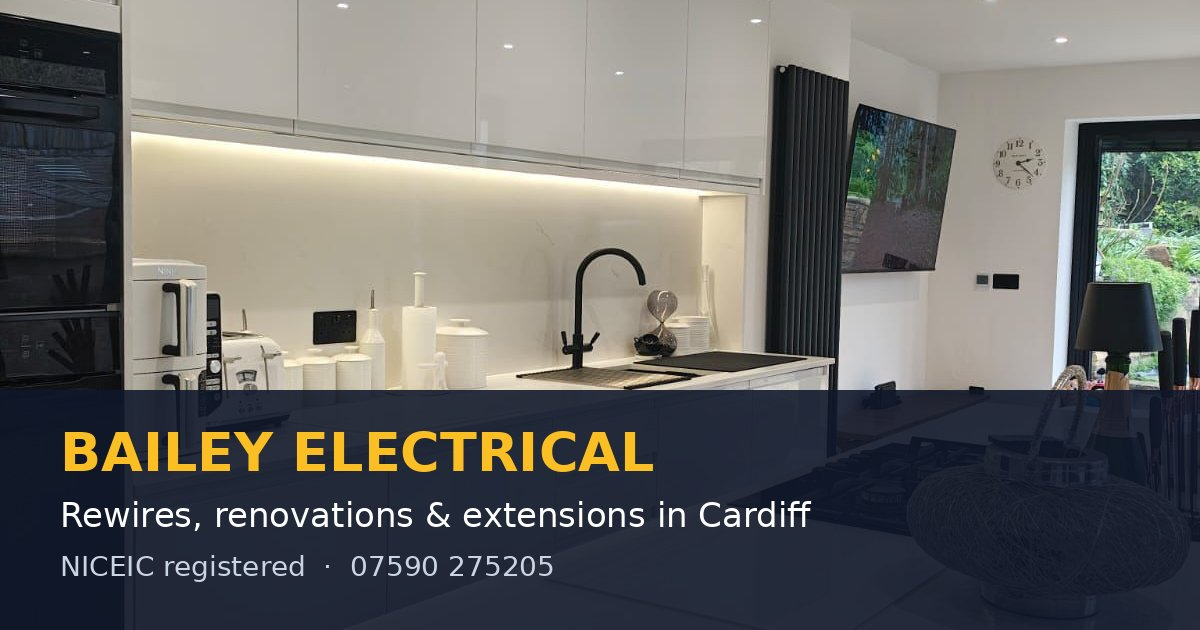
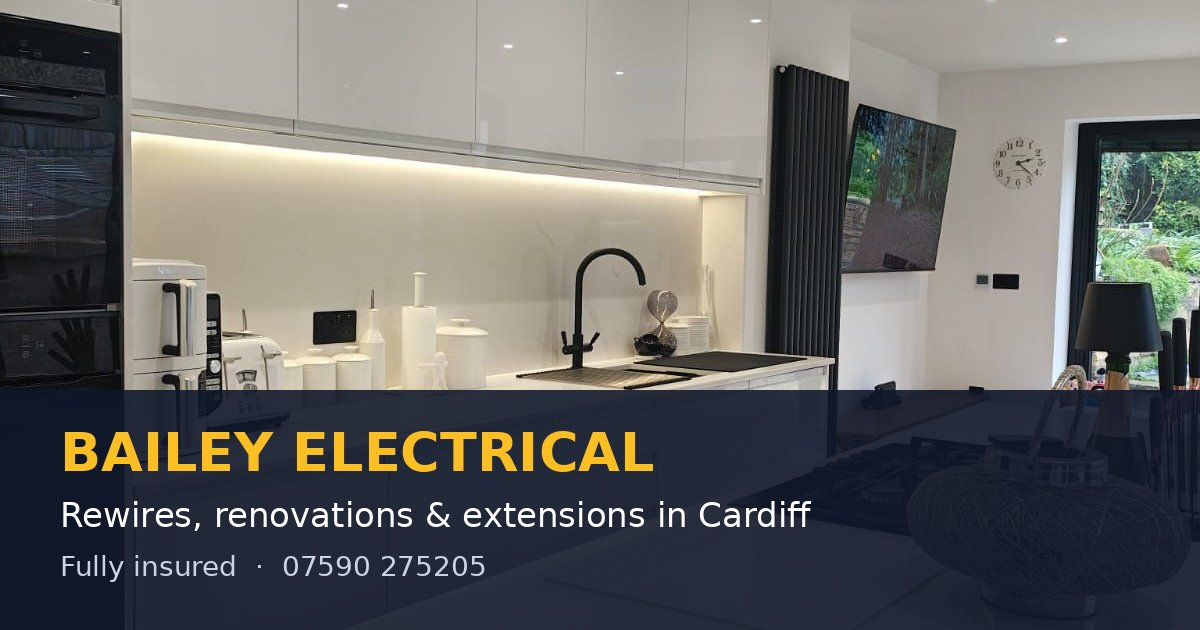
Remove NICEIC references, brighten photo fades, use preferred hero copy
- Mark is not NICEIC registered: removed from copy, schema, llms.txt and share image
- Building Regs wording now says notifiable work is signed off with Building Control
- Lighter gradients so background photos show through; darker glass panel for contrast
- Hero description reverted to the wording Mark's family prefers

Claude-Session: https://claude.ai/code/session_01WJVn2ZJL3RMjxZNQv47Fcv

Changed region(s): [[0.0617, 0.8746, 0.4625, 0.9349]]

diff --git a/src/styles/global.css b/src/styles/global.css
@@ -52,19 +52,20 @@ h1, h2, h3 { letter-spacing: -0.02em; }
 
 /* Full-bleed photo backgrounds that fade into the navy */
 .photo-bg { position: relative; overflow: hidden; background: var(--navy); isolation: isolate; }
-.photo-bg > .bg { position: absolute; inset: 0; width: 100%; height: 100%; object-fit: cover; z-index: -2; transform: scale(1.04); }
+.photo-bg > .bg { position: absolute; inset: 0; width: 100%; height: 100%; object-fit: cover; z-index: -2; transform: scale(1.04); filter: brightness(1.12) saturate(1.05); }
+.photo-bg h1, .photo-bg h2, .photo-bg p, .photo-bg li { text-shadow: 0 1px 12px rgba(11,18,32,.55); }
 .photo-bg::before { content: ""; position: absolute; inset: 0; z-index: -1;
   background:
-    linear-gradient(90deg, rgba(11,18,32,.97) 0%, rgba(11,18,32,.90) 38%, rgba(11,18,32,.55) 70%, rgba(11,18,32,.35) 100%),
-    linear-gradient(0deg, rgba(11,18,32,.85) 0%, rgba(11,18,32,0) 35%); }
-.photo-bg.center::before { background: linear-gradient(180deg, rgba(11,18,32,.82) 0%, rgba(11,18,32,.88) 60%, rgba(11,18,32,.96) 100%); }
-.photo-bg.soft > .bg { filter: blur(2px) saturate(.9); }
-@media (max-width: 767px) { .photo-bg::before { background: linear-gradient(180deg, rgba(11,18,32,.80) 0%, rgba(11,18,32,.92) 55%, rgba(11,18,32,.97) 100%); } }
+    linear-gradient(90deg, rgba(11,18,32,.88) 0%, rgba(11,18,32,.68) 38%, rgba(11,18,32,.28) 72%, rgba(11,18,32,.10) 100%),
+    linear-gradient(0deg, rgba(11,18,32,.55) 0%, rgba(11,18,32,0) 30%); }
+.photo-bg.center::before { background: linear-gradient(180deg, rgba(11,18,32,.55) 0%, rgba(11,18,32,.70) 60%, rgba(11,18,32,.85) 100%); }
+.photo-bg.soft > .bg { filter: saturate(1.05); }
+@media (max-width: 767px) { .photo-bg::before { background: linear-gradient(180deg, rgba(11,18,32,.45) 0%, rgba(11,18,32,.72) 55%, rgba(11,18,32,.88) 100%); } }
 
 /* Glass panels on dark backgrounds */
-.glass { background: rgba(255,255,255,.06); border: 1px solid rgba(255,255,255,.12); backdrop-filter: blur(10px); -webkit-backdrop-filter: blur(10px); }
+.glass { background: rgba(11,18,32,.55); border: 1px solid rgba(255,255,255,.14); backdrop-filter: blur(10px); -webkit-backdrop-filter: blur(10px); }
 .glass-link { transition: all .25s ease; }
-.glass-link:hover { background: rgba(255,255,255,.10); border-color: rgba(251,191,36,.55); transform: translateY(-2px); }
+.glass-link:hover { background: rgba(11,18,32,.70); border-color: rgba(251,191,36,.55); transform: translateY(-2px); }
 
 /* Cards with a photo that fades into the card */
 .photo-card { background: #fff; border: 1px solid #e8edf3; border-radius: 1rem; overflow: hidden; transition: all .3s ease; box-shadow: 0 1px 2px rgba(15,23,42,.04); }
@@ -72,7 +73,7 @@ h1, h2, h3 { letter-spacing: -0.02em; }
 .photo-card .ph { position: relative; height: 190px; overflow: hidden; }
 .photo-card .ph img { width: 100%; height: 100%; object-fit: cover; transition: transform .6s ease; }
 .photo-card:hover .ph img { transform: scale(1.06); }
-.photo-card .ph::after { content: ""; position: absolute; inset: 0; background: linear-gradient(180deg, rgba(255,255,255,0) 35%, rgba(255,255,255,.85) 85%, #fff 100%); }
+.photo-card .ph::after { content: ""; position: absolute; inset: 0; background: linear-gradient(180deg, rgba(255,255,255,0) 60%, rgba(255,255,255,.7) 92%, #fff 100%); }
 
 /* Softer, more premium cards and buttons */
 .card { border-color: #e8edf3; border-radius: 1rem; box-shadow: 0 1px 2px rgba(15,23,42,.04); }

diff --git a/src/pages/llms.txt.ts b/src/pages/llms.txt.ts
@@ -11,17 +11,17 @@ export const GET: APIRoute = async () => {
   const projects = await getCollection('projects');
   const L: string[] = [
     `# ${biz.NAME}`, '',
-    `> ${biz.NAME} is a local, independent, NICEIC registered electrician based in Cardiff, Wales. It specialises in house rewires, consumer unit (fuse box) upgrades, electrics for extensions, kitchens, bathrooms and renovations, and indoor and outdoor lighting. It also carries out EICRs and landlord electrical certificates. It works with homeowners, landlords and letting agents, builders and other trades, and small local businesses.`,
+    `> ${biz.NAME} is a local, independent, fully insured electrician based in Cardiff, Wales. It specialises in house rewires, consumer unit (fuse box) upgrades, electrics for extensions, kitchens, bathrooms and renovations, and indoor and outdoor lighting. It also carries out EICRs and landlord electrical certificates. It works with homeowners, landlords and letting agents, builders and other trades, and small local businesses.`,
     '', '## Key facts',
     `- Business name: ${biz.NAME}`,
     '- Type: Domestic electrician / electrical contractor',
-    '- Registration: NICEIC registered; full public liability insurance',
+    '- Insurance: full public liability insurance',
     '- Based in: Cardiff, Wales, UK',
     `- Areas covered: Cardiff (${biz.CARDIFF_AREAS.join(', ')}) and roughly 20 miles around, including ${biz.NEARBY_AREAS.join(', ')}. Travels further for larger projects.`,
     `- Phone: ${biz.PHONE_DISPLAY} (${biz.PHONE_INTL})`, `- Email: ${biz.EMAIL}`, `- Website: ${S}/`, `- Get a quote: ${S}/get-a-quote/`, `- Facebook: ${biz.FACEBOOK}`,
     '- Quotes: free, fixed written quotes after a survey visit',
     '- Best suited to: planned work such as rewires, renovations, extensions, consumer unit upgrades, lighting projects and landlord testing. Does not offer a 24/7 emergency service.',
-    '- Works with builders: yes — first and second fix around the build programme, certification and Building Regulations notification handled',
+    '- Works with builders: yes — first and second fix around the build programme, certification and Building Regulations sign-off arranged',
     '', '## Services',
     ...services.map((s: any) => `- [${stripTags(s.h1)}](${S}/${s.slug}/): ${stripTags(s.lead)}`),
     '- Lighting: downlights, LED upgrades, under-cabinet, plinth and mirror lighting, garden, patio and outdoor lighting',

diff --git a/src/lib/schema.ts b/src/lib/schema.ts
@@ -21,7 +21,7 @@ export function businessSchema() {
     logo: `${SITE}/logo.svg`,
     image: [`${SITE}/assets/og-image.jpg`, `${SITE}/work-3.jpeg`, `${SITE}/work-7.jpeg`, `${SITE}/work-1.jpeg`],
     description:
-      'Local, independent NICEIC registered electrician in Cardiff specialising in rewires, consumer unit upgrades, extension and renovation electrics, lighting, EICRs and landlord certificates. Works with homeowners, landlords, builders and other trades.',
+      'Local, independent electrician in Cardiff specialising in rewires, consumer unit upgrades, extension and renovation electrics, lighting, EICRs and landlord certificates. Works with homeowners, landlords, builders and other trades.',
     slogan: 'Rewires, renovations & extensions — done properly.',
     telephone: biz.PHONE_INTL,
     email: biz.EMAIL,
@@ -29,7 +29,6 @@ export function businessSchema() {
     areaServed: areaServed(),
     knowsLanguage: 'en-GB',
     currenciesAccepted: 'GBP',
-    memberOf: { '@type': 'Organization', name: 'NICEIC', url: 'https://niceic.com/' },
     knowsAbout: [
       'House rewiring', 'Consumer unit replacement', 'Electrical Installation Condition Reports',
       'Landlord electrical safety certificates', 'Renting Homes (Wales) electrical safety', 'Extension and renovation electrics',

diff --git a/SEO-CHECKLIST.md b/SEO-CHECKLIST.md
@@ -66,7 +66,7 @@ What's already done on the website, and what still needs doing by a person (most
 ### AI assistants (ChatGPT, Claude, Perplexity, Gemini, Google AI Overviews)
 - [x] `llms.txt` – a plain-English Markdown summary of the business, its services, areas and FAQs for AI tools to read
 - [x] `robots.txt` explicitly allows AI crawlers (GPTBot, OAI-SearchBot, ClaudeBot, PerplexityBot, Google-Extended, Applebot and others)
-- [x] Content written as clear, factual statements ("Bailey Electrical is a NICEIC registered electrician in Cardiff that specialises in…"), which AI tools quote more readily
+- [x] Content written as clear, factual statements ("Bailey Electrical is a local, independent electrician in Cardiff that specialises in…"), which AI tools quote more readily
 - [x] Business name, phone and area identical everywhere on the site
 
 > Honest note: no major AI company has confirmed it reads `llms.txt`. It's cheap to have, but what really gets a business named by AI assistants and in Google AI Overviews is the same as normal local SEO: being indexed by Google **and Bing** (ChatGPT search uses Bing), a strong Google Business Profile, reviews, and consistent details across the web. That's the list below.
@@ -83,7 +83,7 @@ What's already done on the website, and what still needs doing by a person (most
 - [ ] In Search Console, submit `https://bailey-electrical.co.uk/sitemap-index.xml`
 
 ### 1. Check the facts on the site (before anything else)
-- [ ] Confirm **NICEIC registration** is current, and send John the registration number to display (the site says it in several places)
+- [ ] Confirm how notifiable work (rewires, consumer units, new circuits) is signed off with Building Control – the site says "we arrange sign-off". If Mark joins a competent person scheme later (NICEIC, NAPIT, ELECSA), add it back to the site – it is a strong trust signal
 - [ ] Confirm the **areas list** (remove anywhere Mark doesn't want to go)
 - [ ] Confirm **services**: EV chargers? Small commercial? Emergency work? (EV and 24/7 are left off for now)
 - [ ] Add **town names** to the three project write-ups if possible (e.g. "Kitchen extension, Penarth")
@@ -119,7 +119,6 @@ This is what shows up in Google Maps, the "map pack" at the top of local searche
 
 ### 5. Consistent listings ("citations")
 Same name, phone and website everywhere. Pick the ones that are free and relevant:
-- [ ] NICEIC "Find a contractor" listing – make sure the website link is on it
 - [ ] Facebook page – add the website link, services and service area; use the same phone number
 - [ ] Yell, Thomson Local, FreeIndex, Cylex (free listings)
 - [ ] Checkatrade / MyBuilder / Rated People – optional and paid, and they tend to bring small, price-shopping jobs, so only if they suit

diff --git a/src/content/guides/fuse-box-types.md b/src/content/guides/fuse-box-types.md
@@ -57,6 +57,6 @@ Since 1 January 2016 the wiring regulations have required new consumer units in 
 
 1. We **test the existing circuits** first. RCD protection will trip if there are hidden faults, so any problems are found and explained before the new board goes in.
 2. The new consumer unit is fitted, usually in **about a day**.
-3. Everything is tested again, you get an **Electrical Installation Certificate**, and the work is notified to Building Control.
+3. Everything is tested again, you get an **Electrical Installation Certificate**, and notifiable work is signed off with Building Control.
 
 See [consumer unit upgrades in Cardiff](/consumer-unit-upgrades-cardiff/) or [get a quote](/get-a-quote/?job=Consumer%20unit%20upgrade).
